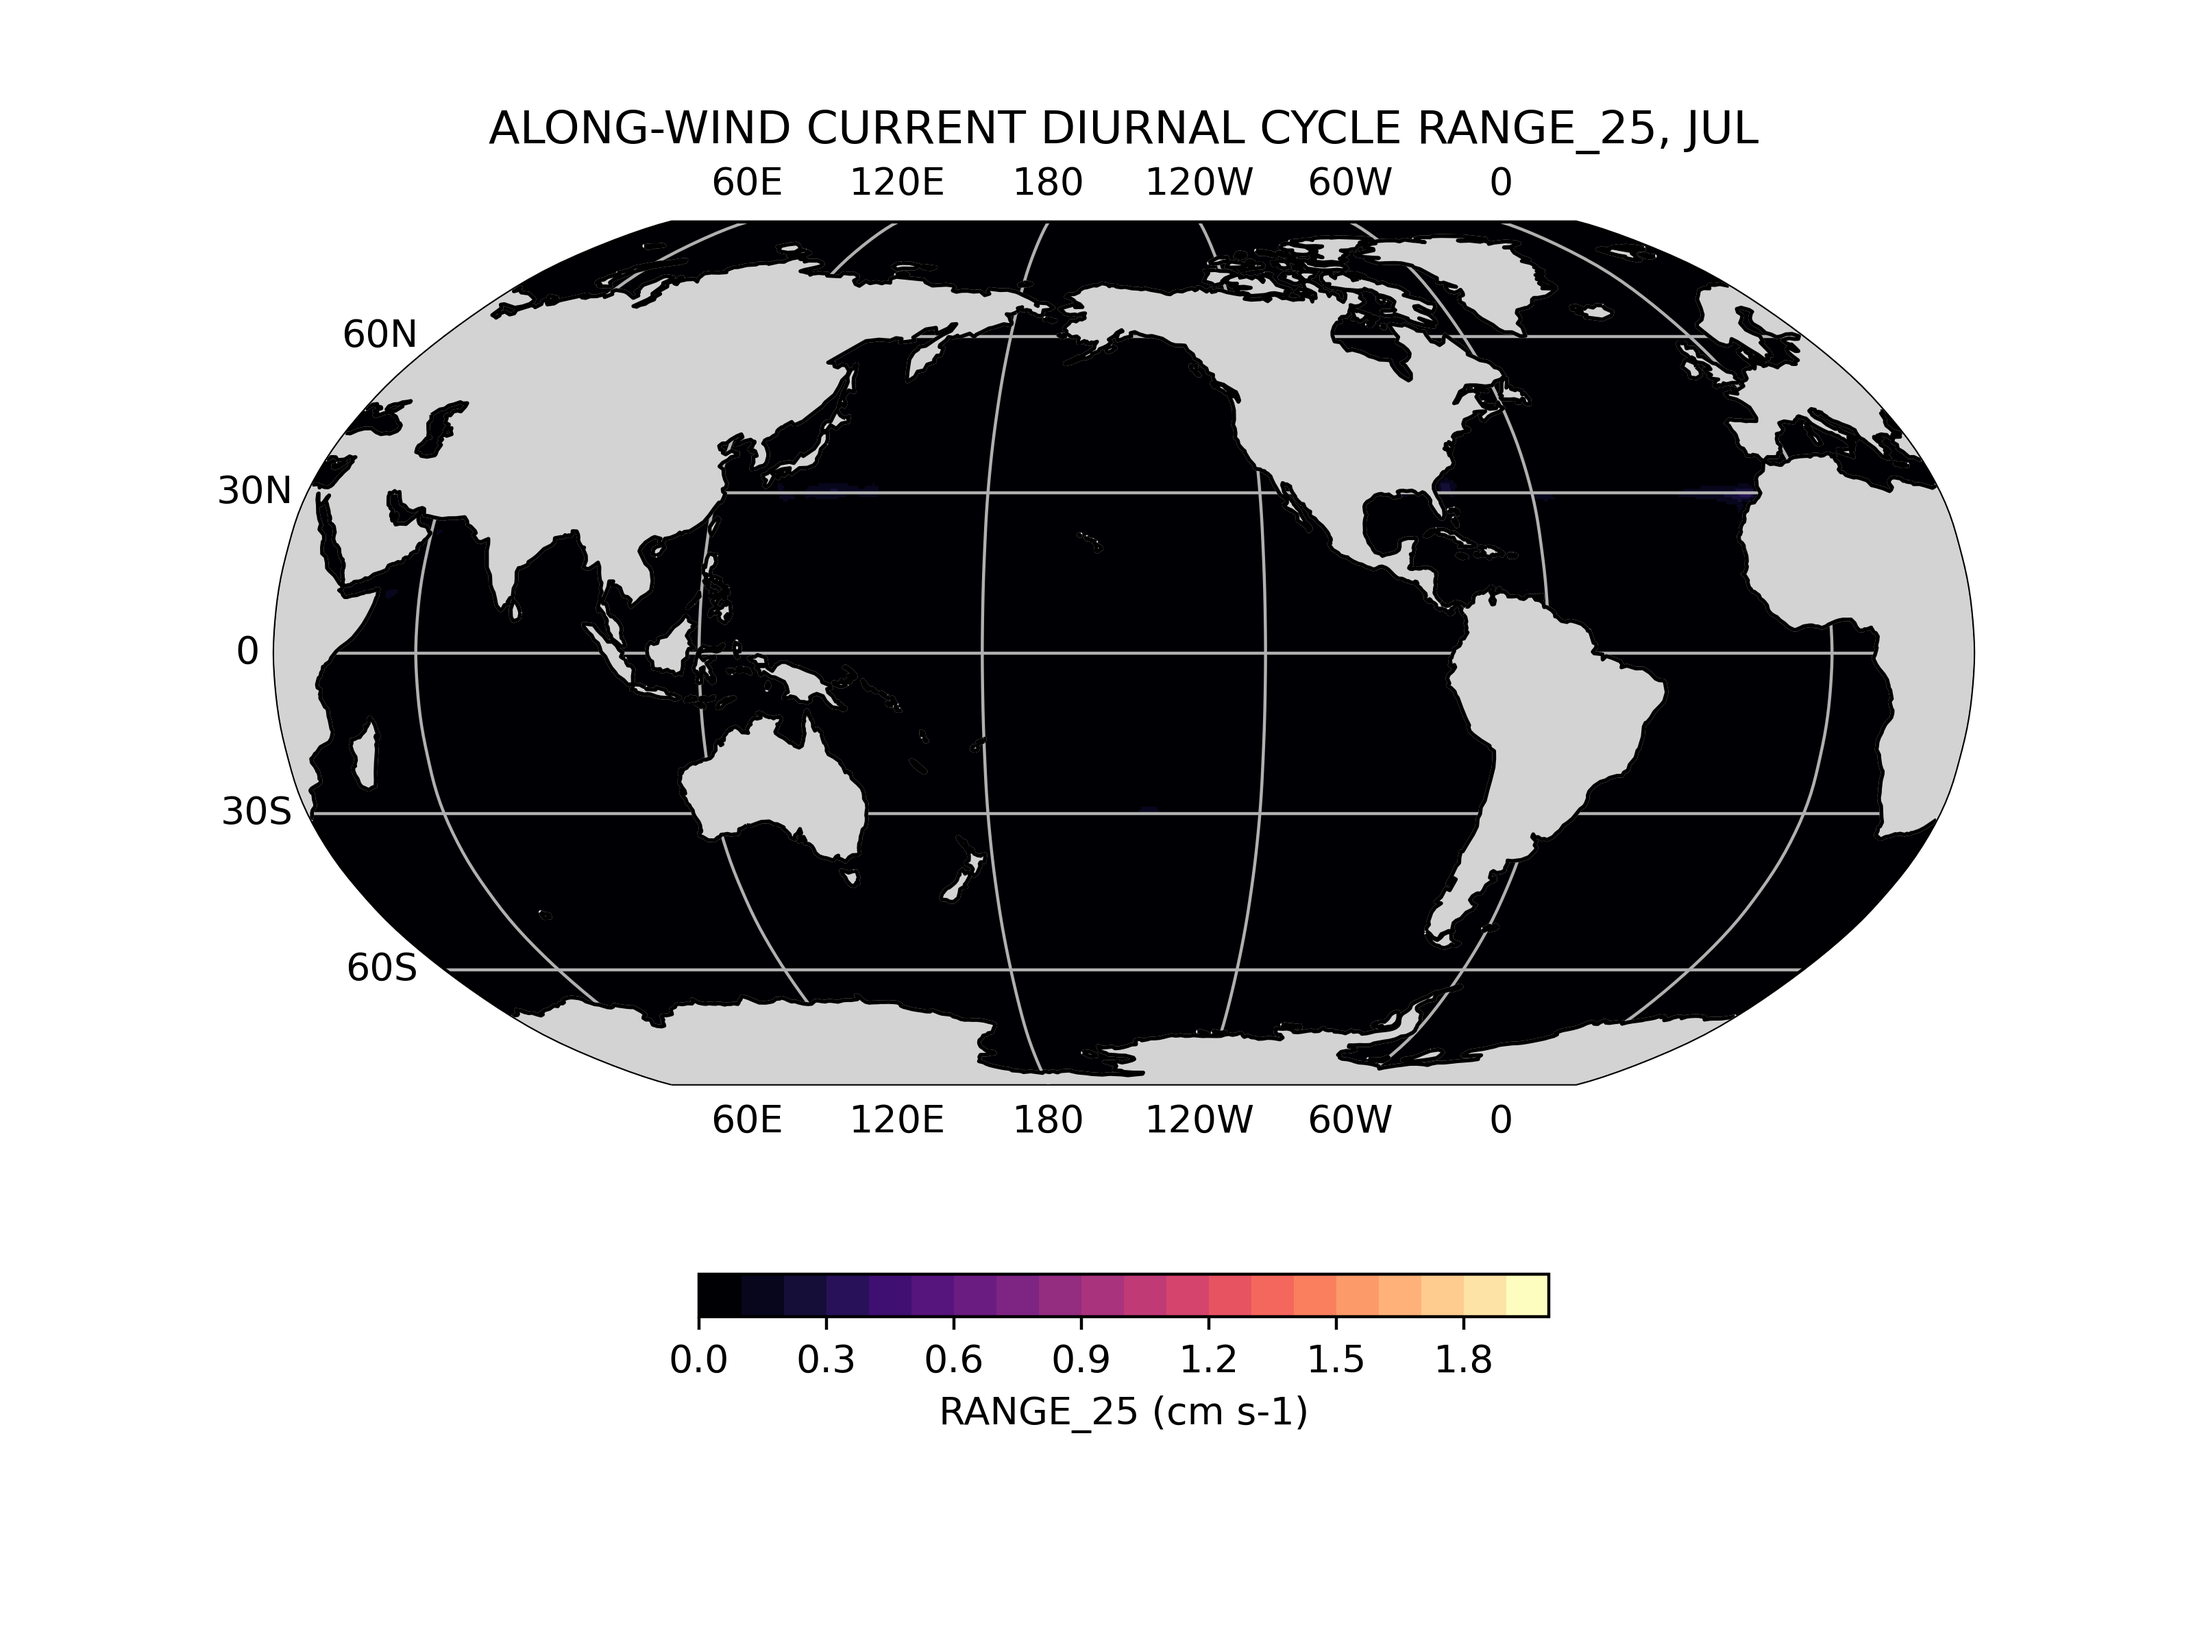
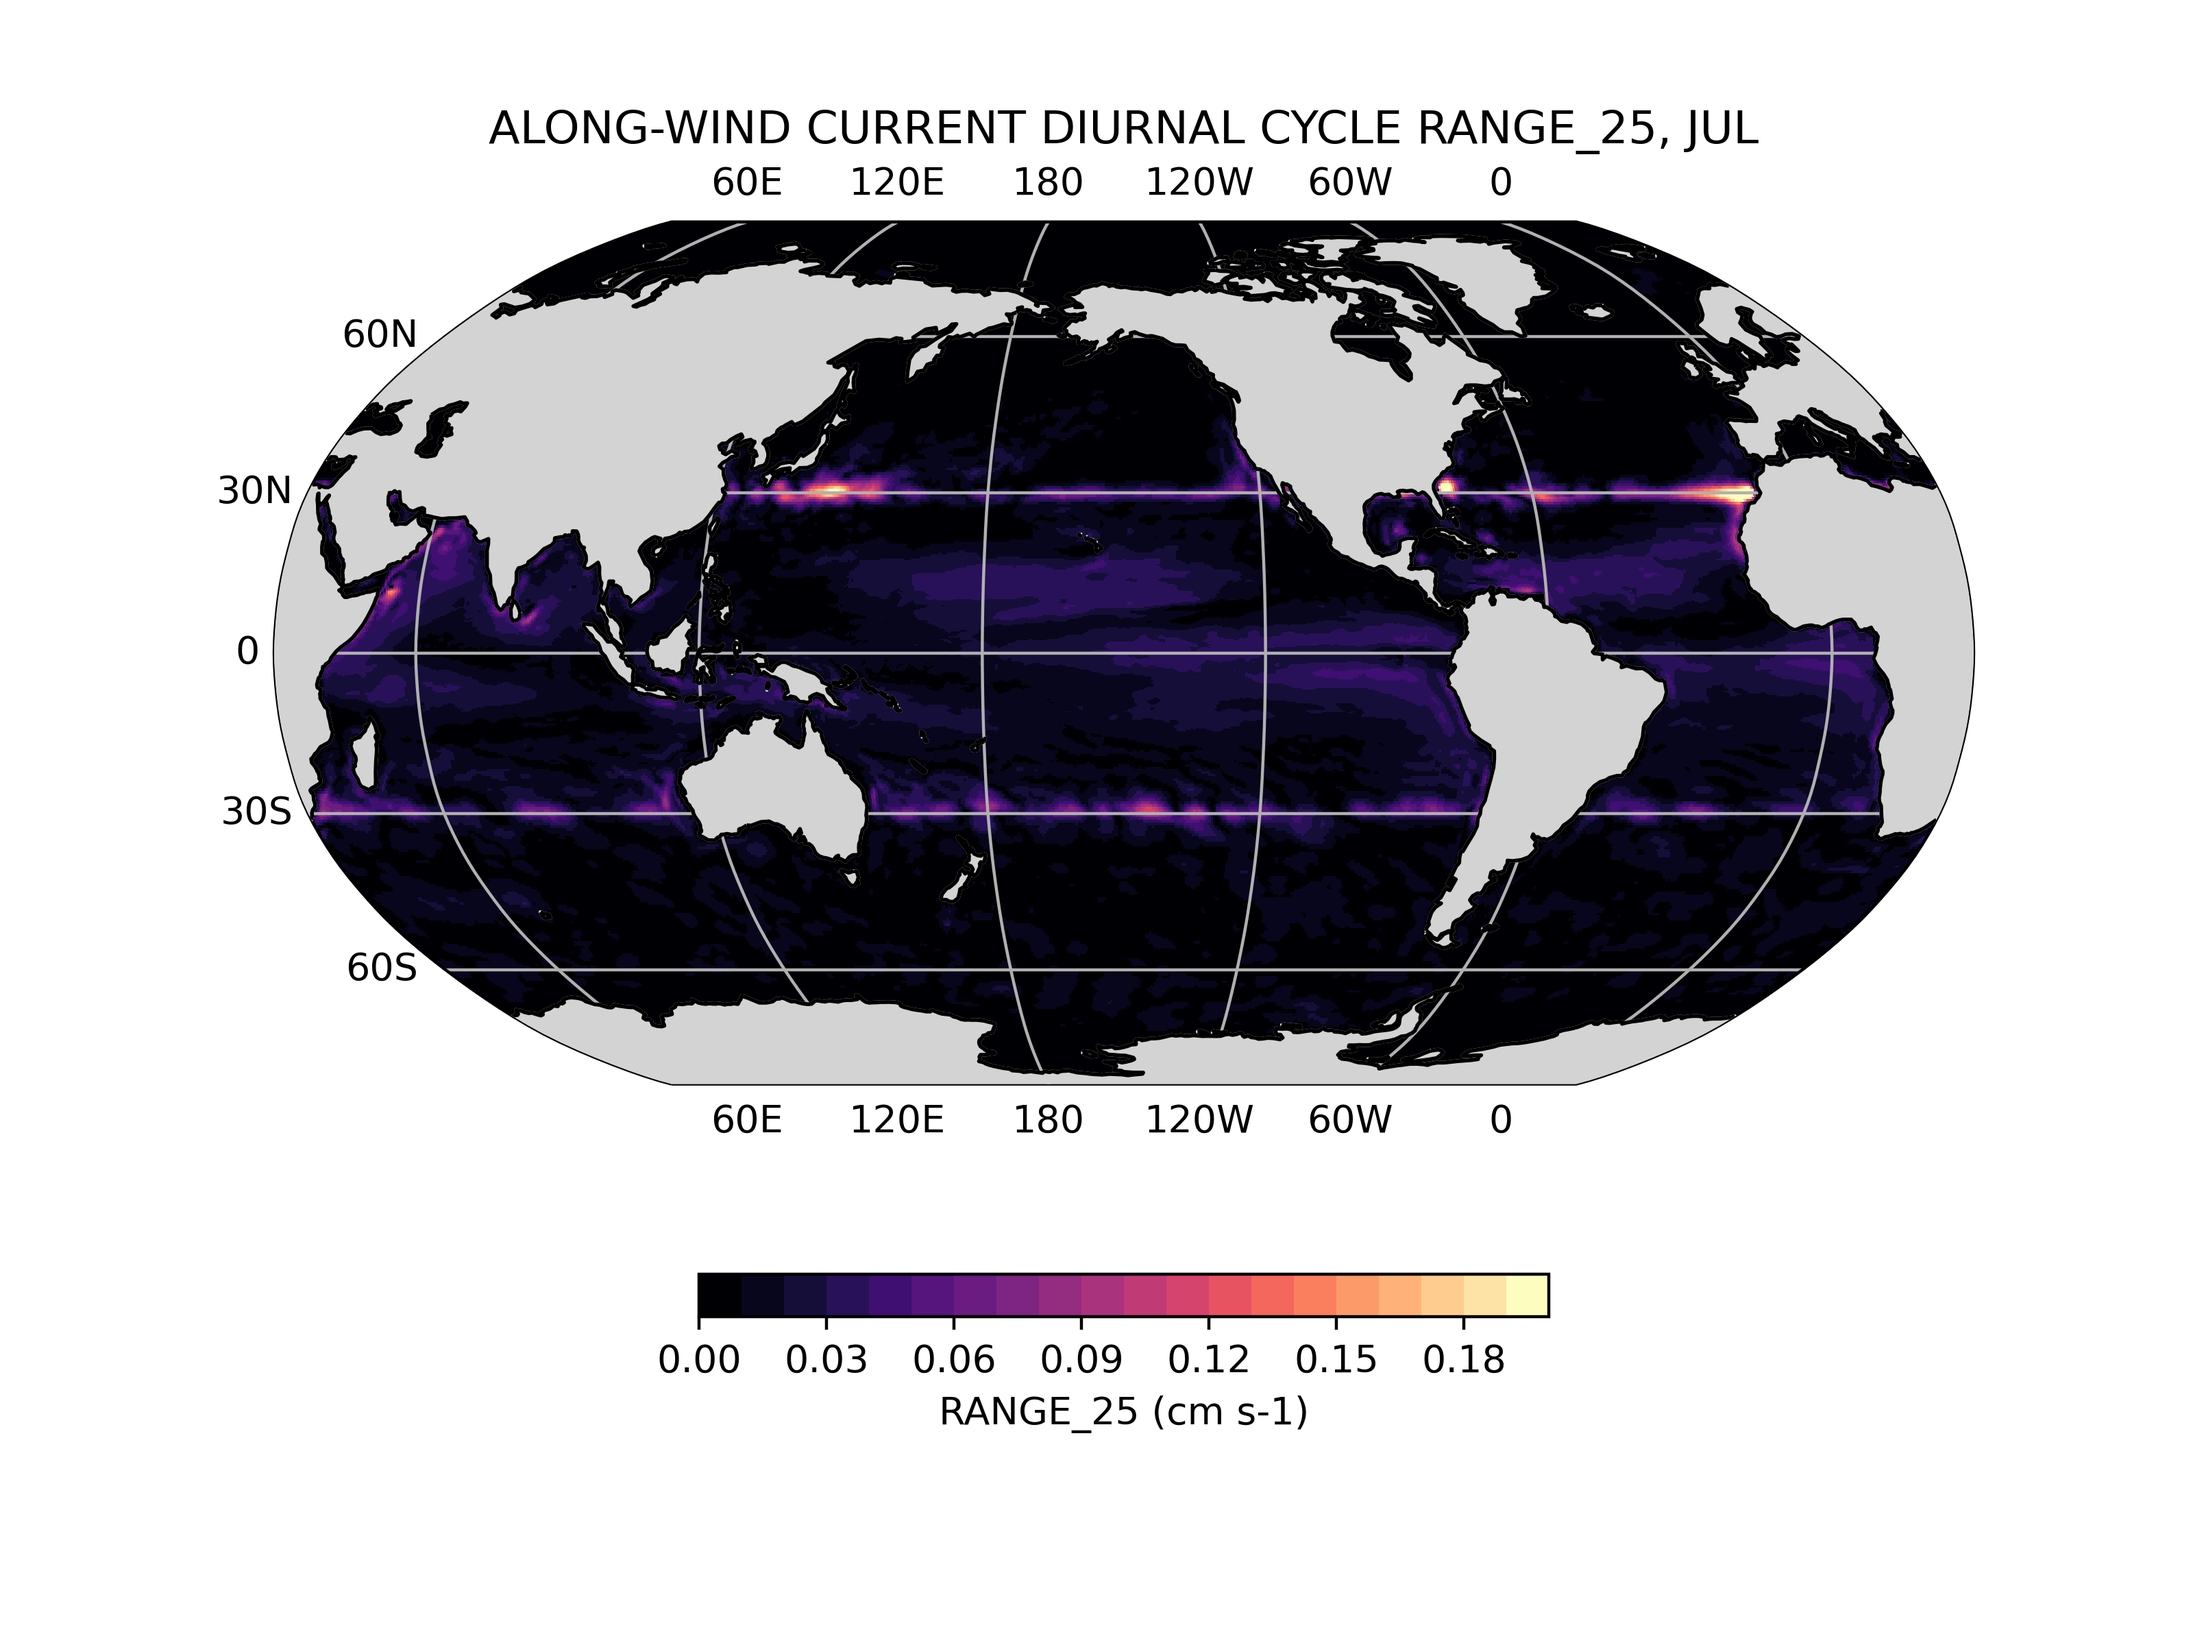
Plot edits.

diff --git a/diurnal_cycle/analysis/diurnal_range_maps.py b/diurnal_cycle/analysis/diurnal_range_maps.py
@@ -199,7 +199,7 @@ def main(plot_month, plot_var, plot_type):
         for v in ['RANGE']:
             ds[v] = ds[v]*100.0
             ds[v].attrs['units'] = 'cm s-1'
-
+    
     # Plot.
     if plot_type == 'ALL':
         plot_all_maps(ds, plot_var, month_str)
@@ -347,11 +347,21 @@ def plot_dets(vn, att, pty=None):
 	    'stepRANGE':0.1,
 	    'unitsRANGE':'K',
 	    'cmapRANGE':'magma',
-	    'minPHASE':0.0,
+	    'minRANGE_25':0.0,
+            'maxRANGE_25':0.5,
+            'stepRANGE_25':0.05,
+            'unitsRANGE_25':'K',
+            'cmapRANGE_25':'magma',
+            'minPHASE':0.0,
 	    'maxPHASE':24.0,
 	    'stepPHASE':1.0,
 	    'cmapPHASE':'twilight',
 	    'unitsPHASE':'local time',
+            'minPHASE_25':0.0,
+            'maxPHASE_25':24.0,
+            'stepPHASE_25':1.0,
+            'cmapPHASE_25':'twilight',
+            'unitsPHASE_25':'local time',
 	    'minHALF_DEPTH':0.0,
 	    'maxHALF_DEPTH':20.0,
 	    'stepHALF_DEPTH':2.0,
@@ -375,8 +385,8 @@ def plot_dets(vn, att, pty=None):
             'unitsRANGE':'cm s-1',
             'cmapRANGE':'magma',
             'minRANGE_25':0.0,
-            'maxRANGE_25':2.0,
-            'stepRANGE_25':0.1,
+            'maxRANGE_25':0.2,
+            'stepRANGE_25':0.01,
             'unitsRANGE_25':'cm s-1',
             'cmapRANGE_25':'magma',
             'minPHASE':0.0,
